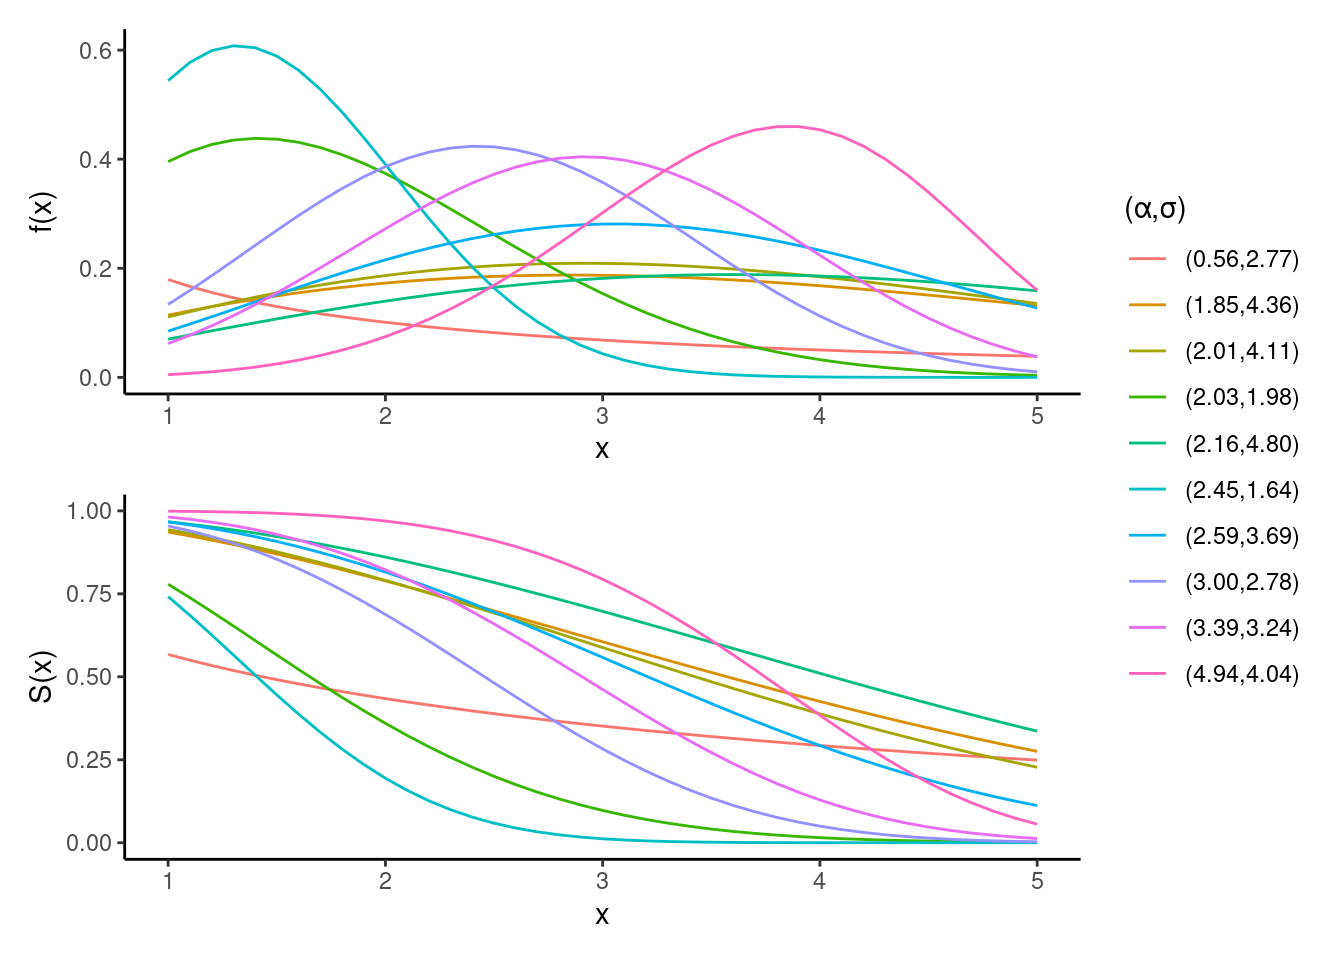
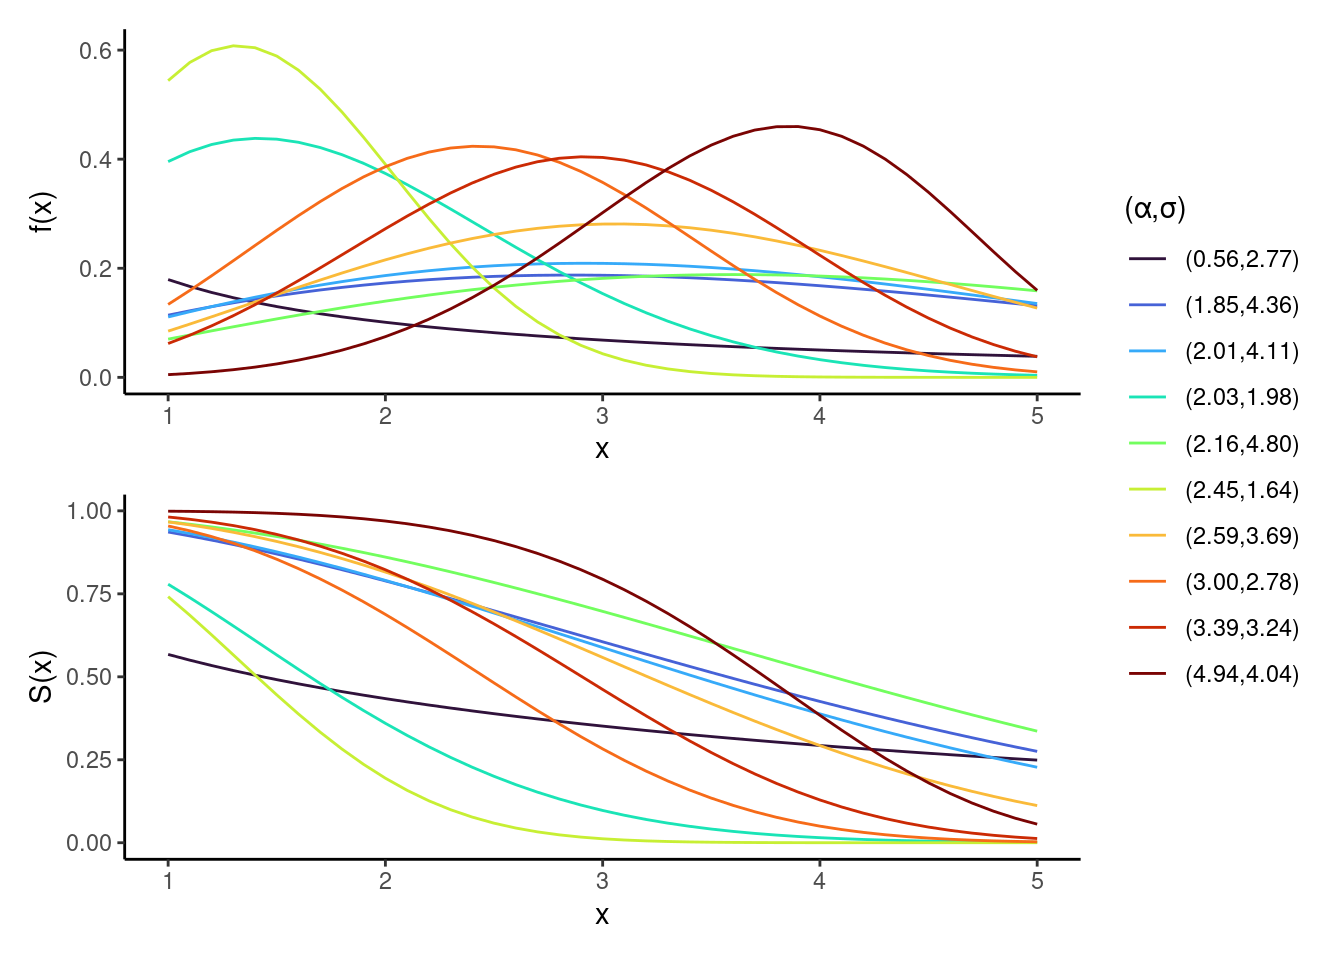
add discrete palette for weibull plots

diff --git a/docs/index.html b/docs/index.html
@@ -7,7 +7,7 @@
 <meta name="viewport" content="width=device-width, initial-scale=1.0, user-scalable=yes">
 
 <meta name="author" content="John Zobolas">
-<meta name="dcterms.date" content="2025-05-13">
+<meta name="dcterms.date" content="2025-05-15">
 <meta name="description" content="Supporting information for paper ‘Examining properness in the external validation of survival models with squared and logarithmic losses’">
 
 <title>Supplementary Material</title>
@@ -210,7 +210,7 @@ window.Quarto = {
     <div>
     <div class="quarto-title-meta-heading">Published</div>
     <div class="quarto-title-meta-contents">
-      <p class="date">May 13, 2025</p>
+      <p class="date">May 15, 2025</p>
     </div>
   </div>
   
@@ -237,23 +237,24 @@ window.Quarto = {
 <span id="cb1-7"><a href="#cb1-7" aria-hidden="true" tabindex="-1"></a>shape <span class="ot">=</span> <span class="fu">runif</span>(<span class="dv">10</span>, <span class="fl">0.5</span>, <span class="dv">5</span>)</span>
 <span id="cb1-8"><a href="#cb1-8" aria-hidden="true" tabindex="-1"></a>scale <span class="ot">=</span> <span class="fu">runif</span>(<span class="dv">10</span>, <span class="fl">0.5</span>, <span class="dv">5</span>)</span>
 <span id="cb1-9"><a href="#cb1-9" aria-hidden="true" tabindex="-1"></a></span>
-<span id="cb1-10"><a href="#cb1-10" aria-hidden="true" tabindex="-1"></a>dw <span class="ot">=</span> <span class="fu">mapply</span>(<span class="cf">function</span>(shape,scale) <span class="fu">dweibull</span>(<span class="fu">seq.int</span>(<span class="dv">1</span>,<span class="dv">5</span>,<span class="fl">0.1</span>), shape,scale),shape,scale) <span class="sc">%&gt;%</span></span>
-<span id="cb1-11"><a href="#cb1-11" aria-hidden="true" tabindex="-1"></a>  reshape2<span class="sc">::</span><span class="fu">melt</span>() <span class="sc">%&gt;%</span></span>
+<span id="cb1-10"><a href="#cb1-10" aria-hidden="true" tabindex="-1"></a>dw <span class="ot">=</span> <span class="fu">mapply</span>(<span class="cf">function</span>(shape,scale) <span class="fu">dweibull</span>(<span class="fu">seq.int</span>(<span class="dv">1</span>,<span class="dv">5</span>,<span class="fl">0.1</span>), shape,scale),shape,scale) <span class="sc">|&gt;</span></span>
+<span id="cb1-11"><a href="#cb1-11" aria-hidden="true" tabindex="-1"></a>  reshape2<span class="sc">::</span><span class="fu">melt</span>() <span class="sc">|&gt;</span></span>
 <span id="cb1-12"><a href="#cb1-12" aria-hidden="true" tabindex="-1"></a>  <span class="fu">mutate</span>(<span class="at">x =</span> <span class="fu">rep</span>(<span class="fu">seq.int</span>(<span class="dv">1</span>,<span class="dv">5</span>,<span class="fl">0.1</span>), <span class="dv">10</span>),</span>
-<span id="cb1-13"><a href="#cb1-13" aria-hidden="true" tabindex="-1"></a>        <span class="at">group =</span> <span class="fu">rep</span>(<span class="fu">sprintf</span>(<span class="st">"(%.2f,%.2f)"</span>,shape,scale), <span class="at">each =</span> <span class="dv">41</span>)) <span class="sc">%&gt;%</span></span>
+<span id="cb1-13"><a href="#cb1-13" aria-hidden="true" tabindex="-1"></a>        <span class="at">group =</span> <span class="fu">rep</span>(<span class="fu">sprintf</span>(<span class="st">"(%.2f,%.2f)"</span>,shape,scale), <span class="at">each =</span> <span class="dv">41</span>)) <span class="sc">|&gt;</span></span>
 <span id="cb1-14"><a href="#cb1-14" aria-hidden="true" tabindex="-1"></a>  <span class="fu">select</span>(x, group, value)</span>
-<span id="cb1-15"><a href="#cb1-15" aria-hidden="true" tabindex="-1"></a>pw <span class="ot">=</span> <span class="fu">mapply</span>(<span class="cf">function</span>(shape,scale) <span class="fu">pweibull</span>(<span class="fu">seq.int</span>(<span class="dv">1</span>,<span class="dv">5</span>,<span class="fl">0.1</span>), shape,scale, <span class="at">lower.tail=</span>F),shape,scale) <span class="sc">%&gt;%</span></span>
-<span id="cb1-16"><a href="#cb1-16" aria-hidden="true" tabindex="-1"></a>  reshape2<span class="sc">::</span><span class="fu">melt</span>() <span class="sc">%&gt;%</span></span>
+<span id="cb1-15"><a href="#cb1-15" aria-hidden="true" tabindex="-1"></a>pw <span class="ot">=</span> <span class="fu">mapply</span>(<span class="cf">function</span>(shape,scale) <span class="fu">pweibull</span>(<span class="fu">seq.int</span>(<span class="dv">1</span>,<span class="dv">5</span>,<span class="fl">0.1</span>), shape,scale, <span class="at">lower.tail=</span>F),shape,scale) <span class="sc">|&gt;</span></span>
+<span id="cb1-16"><a href="#cb1-16" aria-hidden="true" tabindex="-1"></a>  reshape2<span class="sc">::</span><span class="fu">melt</span>() <span class="sc">|&gt;</span></span>
 <span id="cb1-17"><a href="#cb1-17" aria-hidden="true" tabindex="-1"></a>  <span class="fu">mutate</span>(<span class="at">x =</span> <span class="fu">rep</span>(<span class="fu">seq.int</span>(<span class="dv">1</span>,<span class="dv">5</span>,<span class="fl">0.1</span>), <span class="dv">10</span>),</span>
-<span id="cb1-18"><a href="#cb1-18" aria-hidden="true" tabindex="-1"></a>        <span class="at">group =</span> <span class="fu">rep</span>(<span class="fu">sprintf</span>(<span class="st">"(%.2f,%.2f)"</span>,shape,scale), <span class="at">each =</span> <span class="dv">41</span>)) <span class="sc">%&gt;%</span></span>
+<span id="cb1-18"><a href="#cb1-18" aria-hidden="true" tabindex="-1"></a>        <span class="at">group =</span> <span class="fu">rep</span>(<span class="fu">sprintf</span>(<span class="st">"(%.2f,%.2f)"</span>,shape,scale), <span class="at">each =</span> <span class="dv">41</span>)) <span class="sc">|&gt;</span></span>
 <span id="cb1-19"><a href="#cb1-19" aria-hidden="true" tabindex="-1"></a>  <span class="fu">select</span>(x, group, value)</span>
 <span id="cb1-20"><a href="#cb1-20" aria-hidden="true" tabindex="-1"></a></span>
 <span id="cb1-21"><a href="#cb1-21" aria-hidden="true" tabindex="-1"></a>(<span class="fu">ggplot</span>(dw, <span class="fu">aes</span>(<span class="at">x =</span> x, <span class="at">y =</span> value, <span class="at">group =</span> group, <span class="at">color =</span> group)) <span class="sc">+</span> <span class="fu">ylab</span>(<span class="st">"f(x)"</span>)) <span class="sc">/</span></span>
-<span id="cb1-22"><a href="#cb1-22" aria-hidden="true" tabindex="-1"></a>  (<span class="fu">ggplot</span>(pw, <span class="fu">aes</span>(<span class="at">x =</span> x, <span class="at">y =</span> value, <span class="at">group =</span> group, <span class="at">color =</span> group)) <span class="sc">+</span> <span class="fu">ylab</span>(<span class="st">"S(x)"</span>)) <span class="sc">+</span></span>
+<span id="cb1-22"><a href="#cb1-22" aria-hidden="true" tabindex="-1"></a>(<span class="fu">ggplot</span>(pw, <span class="fu">aes</span>(<span class="at">x =</span> x, <span class="at">y =</span> value, <span class="at">group =</span> group, <span class="at">color =</span> group)) <span class="sc">+</span> <span class="fu">ylab</span>(<span class="st">"S(x)"</span>)) <span class="sc">+</span></span>
 <span id="cb1-23"><a href="#cb1-23" aria-hidden="true" tabindex="-1"></a>  <span class="fu">plot_layout</span>(<span class="at">guides=</span><span class="st">'collect'</span>) <span class="sc">&amp;</span></span>
 <span id="cb1-24"><a href="#cb1-24" aria-hidden="true" tabindex="-1"></a>  <span class="fu">geom_line</span>() <span class="sc">&amp;</span></span>
 <span id="cb1-25"><a href="#cb1-25" aria-hidden="true" tabindex="-1"></a>  <span class="fu">theme_classic</span>() <span class="sc">&amp;</span></span>
-<span id="cb1-26"><a href="#cb1-26" aria-hidden="true" tabindex="-1"></a>  <span class="fu">guides</span>(<span class="at">color =</span> <span class="fu">guide_legend</span>(<span class="at">title=</span><span class="st">'(α,σ)'</span>))</span></code><button title="Copy to Clipboard" class="code-copy-button"><i class="bi"></i></button></pre></div>
+<span id="cb1-26"><a href="#cb1-26" aria-hidden="true" tabindex="-1"></a>  <span class="fu">guides</span>(<span class="at">color =</span> <span class="fu">guide_legend</span>(<span class="at">title=</span><span class="st">'(α,σ)'</span>)) <span class="sc">&amp;</span></span>
+<span id="cb1-27"><a href="#cb1-27" aria-hidden="true" tabindex="-1"></a>  <span class="fu">scale_color_viridis_d</span>(<span class="at">option =</span> <span class="st">"turbo"</span>)</span></code><button title="Copy to Clipboard" class="code-copy-button"><i class="bi"></i></button></pre></div>
 </details>
 <div class="cell-output-display">
 <div class="quarto-figure quarto-figure-center">
@@ -853,11 +854,11 @@ loaded via a namespace (and not attached):
 [55] utf8_1.2.4            future.apply_1.11.3   withr_3.0.2          
 [58] scales_1.3.0          backports_1.5.0       ooplah_0.2.0         
 [61] rmarkdown_2.29        globals_0.16.3        distr6_1.8.4         
-[64] evaluate_1.0.3        knitr_1.49            dictionar6_0.1.3     
-[67] mlr3misc_0.16.0       rlang_1.1.4           Rcpp_1.0.13-1        
-[70] glue_1.8.0            param6_0.2.4          palmerpenguins_0.1.1 
-[73] rstudioapi_0.17.1     jsonlite_1.8.9        lgr_0.4.4            
-[76] plyr_1.8.9           </code></pre>
+[64] evaluate_1.0.3        knitr_1.49            viridisLite_0.4.2    
+[67] dictionar6_0.1.3      mlr3misc_0.16.0       rlang_1.1.4          
+[70] Rcpp_1.0.13-1         glue_1.8.0            param6_0.2.4         
+[73] palmerpenguins_0.1.1  rstudioapi_0.17.1     jsonlite_1.8.9       
+[76] lgr_0.4.4             plyr_1.8.9           </code></pre>
 </div>
 </div>
 
